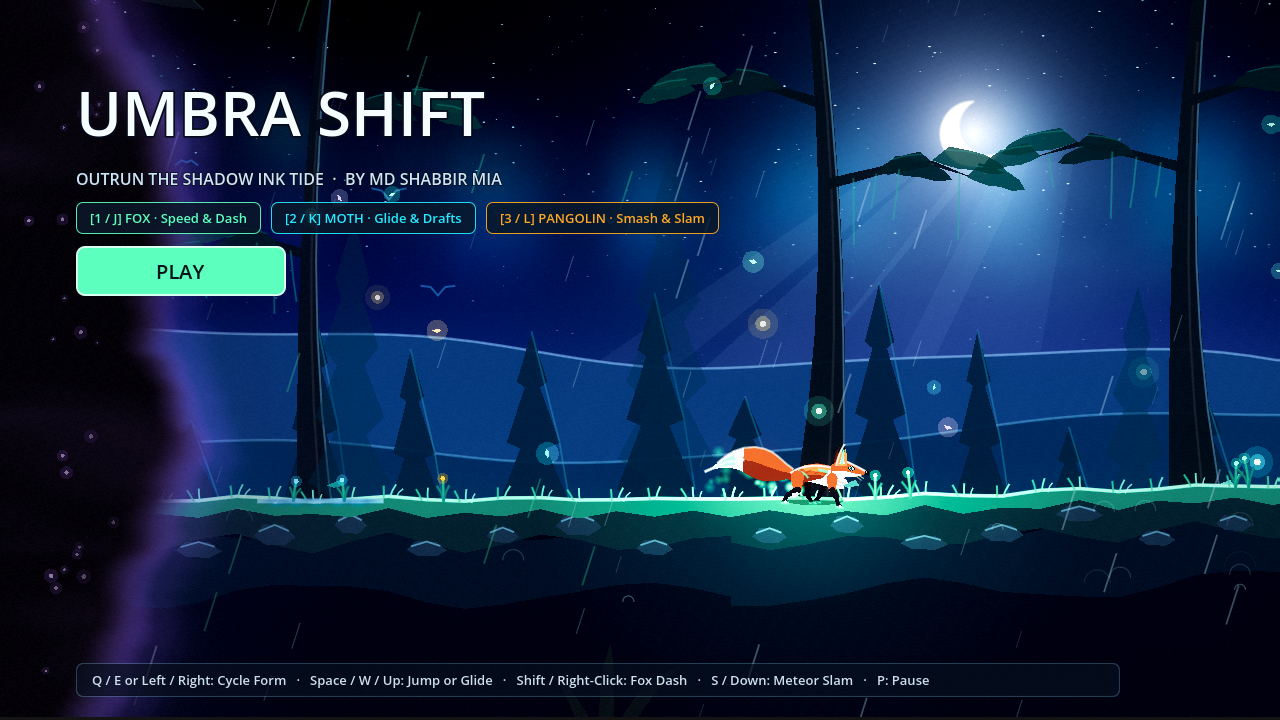
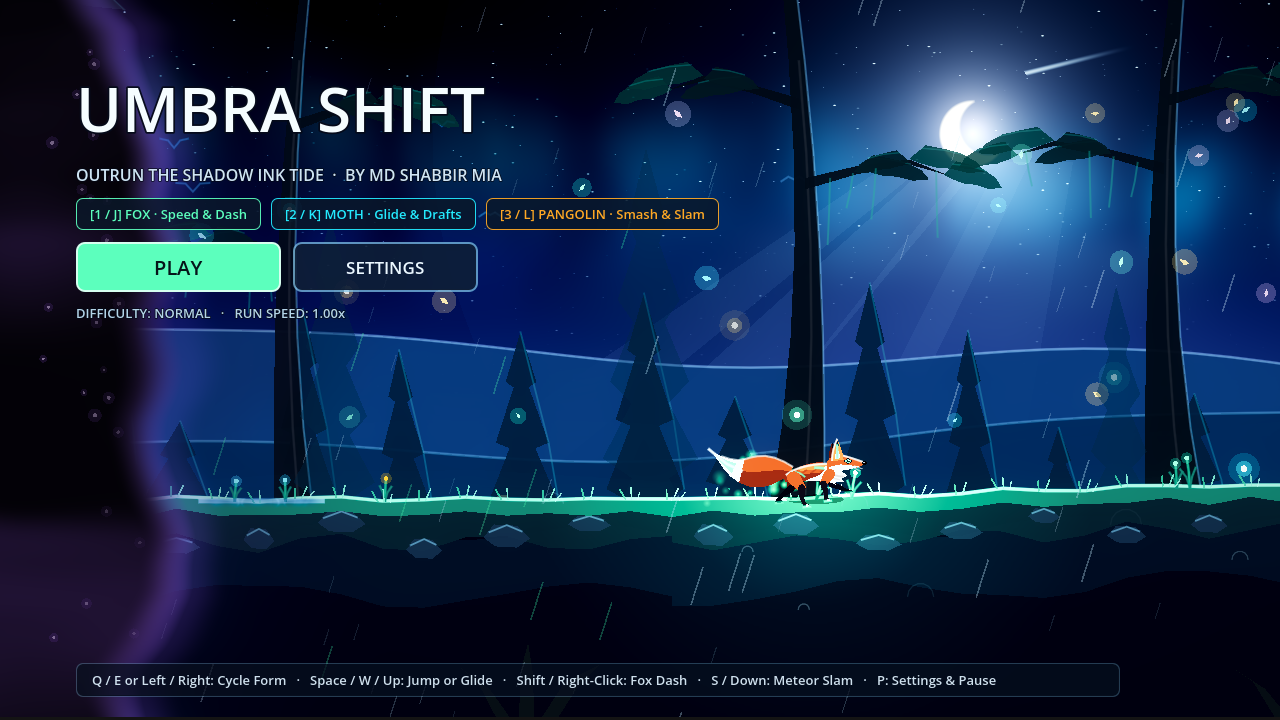
docs: update feature documentation and license
- Enhance Title Screen & Pangolin documentation
- Add MIT License file
- Refresh related screenshots

diff --git a/README.md b/README.md
@@ -12,8 +12,8 @@ Flee through a moonlit twilight forest while pursued by the living **Shadow Ink 
 
 ## Feature Showcase
 
-### 1. Live Atmospheric Title Screen
-Opens directly into the animated twilight forest with a crescent moon, volumetric moonbeams, drifting fireflies, soft rainfall, swaying ferns, the Red Fox breathing on mossy ground, and the creeping violet Shadow Ink Tide on the horizon.
+### 1. Live Atmospheric Title Screen & Quick Settings
+Opens directly into the animated twilight forest with a crescent moon, volumetric moonbeams, drifting fireflies, soft rainfall, swaying ferns, the Red Fox breathing on mossy ground, and the creeping violet Shadow Ink Tide on the horizon — with direct **PLAY** and **SETTINGS** controls plus live **Difficulty & Run Speed** status.
 
 ![Title Screen](docs/screenshots/01_title_screen.png)
 
@@ -47,15 +47,15 @@ Morph into a bronze-keratin Armored Pangolin with overlapping plated scales, mol
 
 ![Armored Pangolin Stride](docs/screenshots/07_pangolin_armored_stride.png)
 
-### 8. Pangolin Meteor Slam & Volcanic Armored Roll
-Dive with `S` / `Down` to curl into a spinning bronze-scale sphere that sears glowing molten-amber fracture cracks into the mossy earth, showers sparks on impact, and smashes straight through brambles and cracked monoliths.
+### 8. Pangolin Meteor Slam & Realistic Shingled Armored Roll
+Dive with `S` / `Down` to curl into a tightly shingled, overlapping bronze-keratin armored ball with an organic coiled tail spiral and curved wind slipstreams — smashing straight through brambles and cracked monoliths while searing glowing fractures into the mossy earth.
 
 ![Pangolin Meteor Slam and Armored Roll](docs/screenshots/08_pangolin_meteor_roll.png)
 
-### 9. Pause Menu & Live Natural Soundscape Mixer
-Press `P` or `Esc` at any time to open the translucent Pause Modal and adjust **Master Volume**, **Natural Forest Ambience**, and **Shapeshift & Wildlife SFX** in real time, or restart / return to the title screen.
+### 9. Settings & Pause Menu — Difficulty Modes, Run Speed & Audio Mixer
+Open **SETTINGS** from the Title Screen or press `P` / `Esc` mid-run to switch between **Easy**, **Normal**, and **Hard** difficulty modes, fine-tune your **Run Speed (`0.60x` – `1.60x`)**, and balance **Master Volume**, **Natural Forest Ambience**, and **Shapeshift & Wildlife SFX** in real time.
 
-![Pause Menu and Audio Mixer](docs/screenshots/09_pause_audio_mixer.png)
+![Settings and Pause Menu](docs/screenshots/09_pause_audio_mixer.png)
 
 ### 10. Shadow Ink Tide Chase, Obstacles & Dynamic HUD
 Outrun the smoky violet Shadow Ink Tide as distance, score, and Flow climb through procedural terrain chunks featuring weathered mossy cliffs, glowing runestones, and dynamic form-reactive HUD indicators.
@@ -71,6 +71,14 @@ Instead of harsh static or white noise, `procedural_audio.gd` synthesizes a calm
 - **Warm Forest Pad**: Soft pentatonic twilight chords that breathe gently in the background.
 - **Natural Woodland Life**: Periodic dew water droplets, distant hollow owl-flute calls, and soft summer crickets.
 - **Tactile Gameplay SFX**: Distinct musical chimes and natural acoustic cues for Fox leaps & dashes, Moth silky wing flutters, Pangolin rock-smashing impacts, form shifts, and rising Flow milestones.
+
+---
+
+## Difficulty Modes, Run Speed & Pure Godot 4 Optimization
+
+- **Difficulty Modes (`Easy` / `Normal` / `Hard`)**: Adjusts base pace, Shadow Ink Tide pursuit aggression, stumble recovery grace, and score multiplier (`0.85x` / `1.00x` / `1.35x`).
+- **Custom Run Speed (`0.60x` – `1.60x`)**: Smoothly dial your preferred pace from Relaxed (`0.60x`) to Turbo (`1.60x`) inside Settings — persisted automatically alongside your chosen difficulty and high scores in `user://highscore.cfg`.
+- **100% Pure Godot 4 Performance**: Pre-baked terrain geology polygons, viewport frustum culling, batched `draw_multiline()` grass & rain passes, zero-GC Structure-of-Arrays (SoA) VFX/audio pools, bulk `AudioStreamGeneratorPlayback.push_buffer()`, and branch-guarded GLSL shaders for silky-smooth 60 FPS gameplay.
 
 ---
 
@@ -109,6 +117,7 @@ You can also click any of the three form cards in the bottom-left HUD to shift d
 ```text
 .
 ├── project.godot                     # Godot 4 project config (1280x720 keep stretch, HDR 2D, input map)
+├── LICENSE                           # MIT License
 ├── README.md                         # Documentation & live feature gallery
 ├── docs/
 │   ├── .gdignore                     # Keeps documentation images out of Godot asset imports
@@ -146,6 +155,12 @@ You can also click any of the three form cards in the bottom-left HUD to shift d
     ├── ink_tide.gdshader             # Flowing watercolor Shadow Ink Tide edge shader
     └── post_atmosphere.gdshader      # Subtle Flow speed lines & morph rim pulse
 ```
+
+---
+
+## License
+
+This project is licensed under the **MIT License** — see the [LICENSE](LICENSE) file for details.
 
 ---
 
